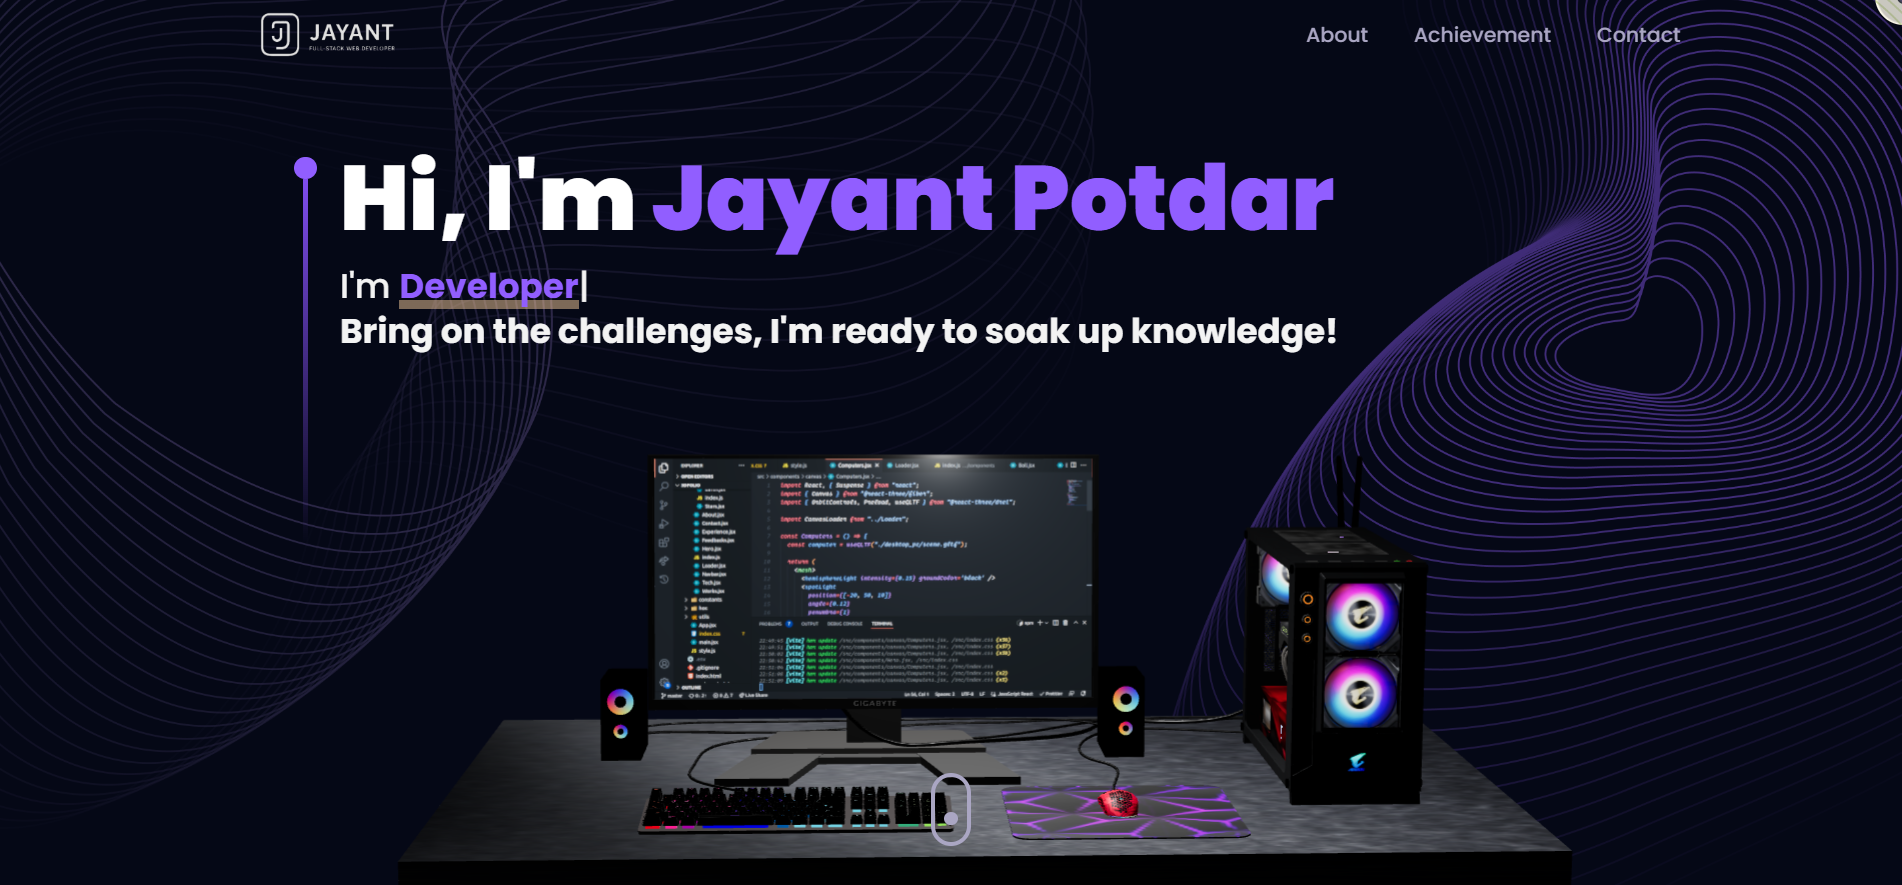
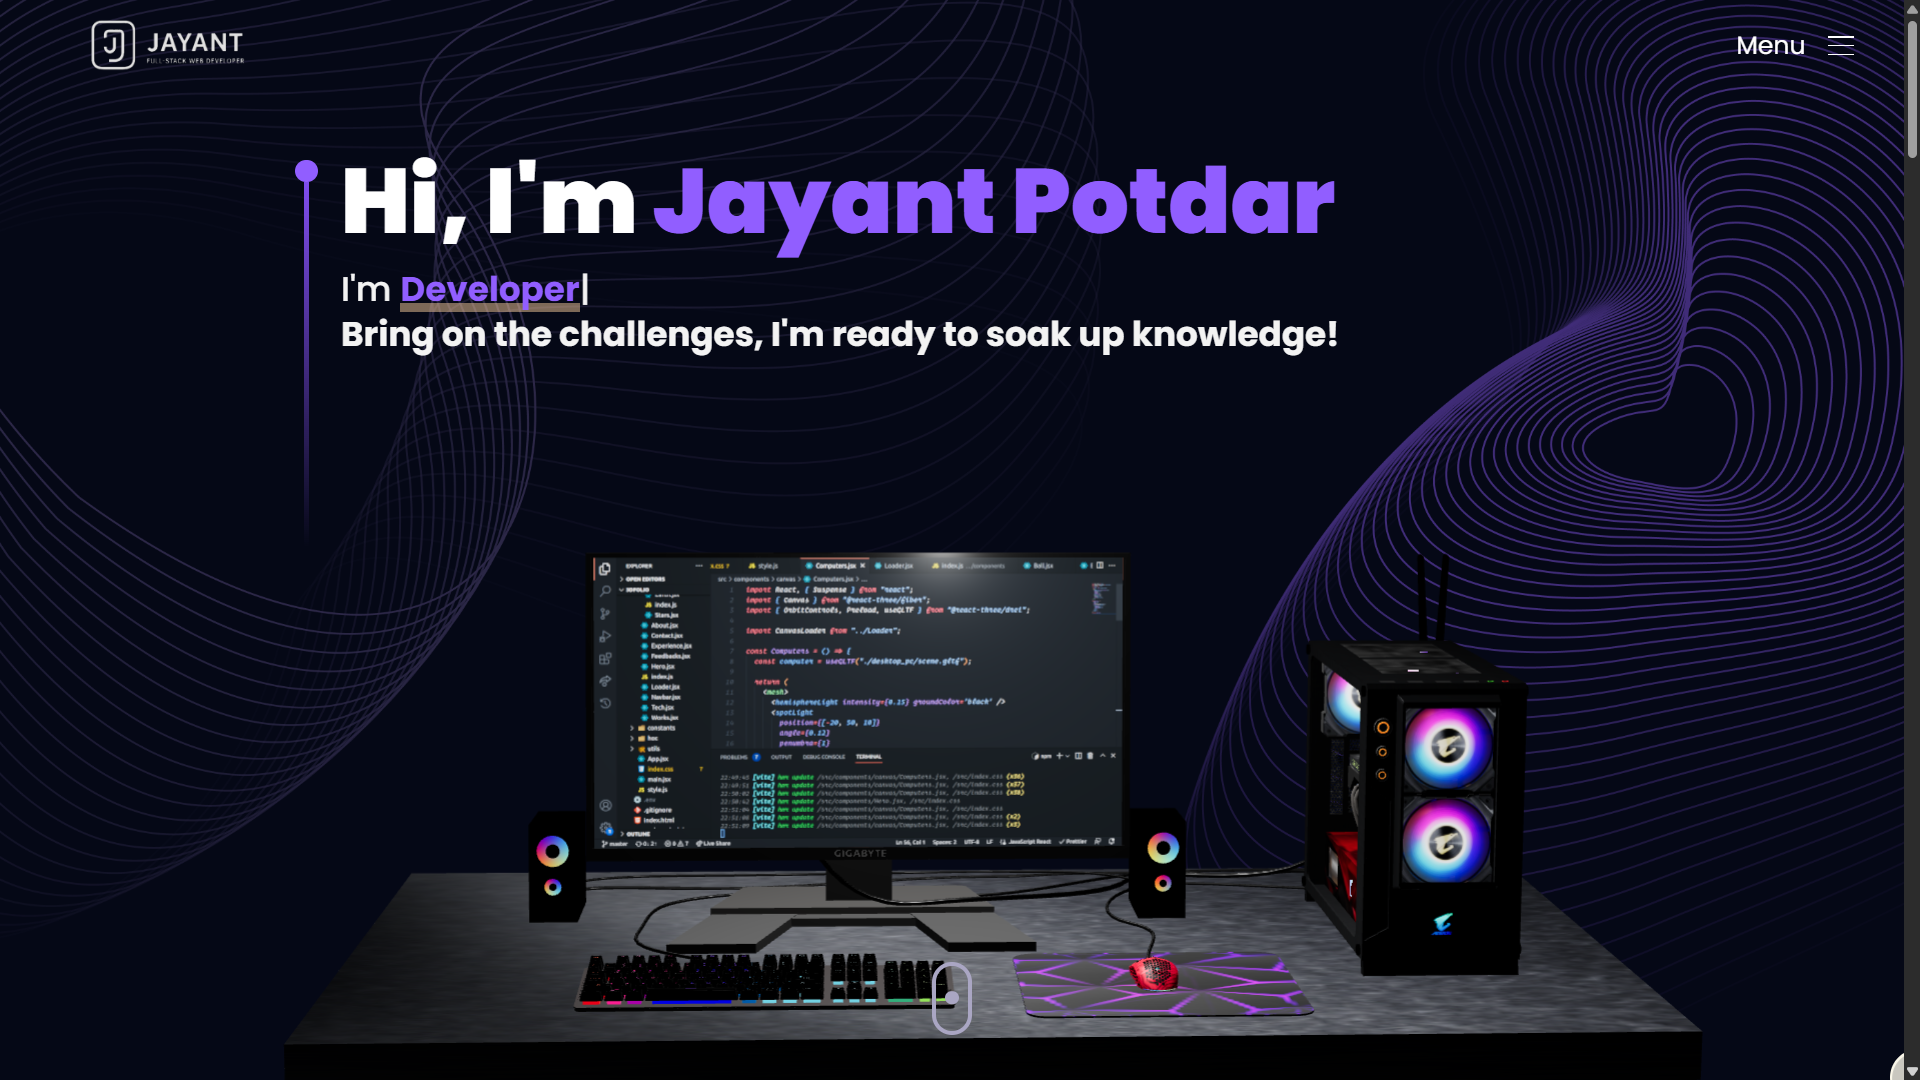
Readme file

Changed region(s): [[0.0, 0.0, 1.0, 1.0], [0.6824, 0.0305, 0.7135, 0.061], [0.4963, 0.0305, 0.5273, 0.061]]

diff --git a/README.md b/README.md
@@ -1,0 +1,230 @@
+# 🚀 3D Portfolio Website
+
+Welcome to my immersive 3D portfolio website! This project showcases my skills, projects, and creativity through stunning 3D animations, interactive elements, and smooth motion design. Experience a cosmic journey through space-themed design with cutting-edge web technologies.
+
+![Portfolio Preview](https://raw.githubusercontent.com/Jayant-1/3D-Portfolio/refs/heads/main/public/assets/nav-link-previews/home.png?token=GHSAT0AAAAAADBVPFWGGTFGHPVSRGRWWB7E2DJDFGQ)
+
+## ✨ Features
+
+### 🎮 Interactive 3D Elements
+
+- **Custom 3D Keyboard**: Interactive Spline-powered keyboard with skills as keycaps that reveal titles and descriptions on hover
+- **3D Models**: Desktop PC, Earth, and other 3D assets using Three.js and React Three Fiber
+- **Particle Systems**: Dynamic star field background creating an immersive space environment
+- **Elastic Cursor**: Custom cursor with physics-based animations for enhanced interactivity
+
+### 🎨 Visual & Animation
+
+- **Smooth Animations**: Powered by GSAP and Framer Motion for fluid scroll animations, hover effects, and element reveals
+- **Space Theme**: Dark cosmic background with particle effects and stellar animations
+- **Preloader**: Engaging loading screen with custom animations
+- **Easter Eggs**: Hidden interactive elements for curious visitors
+
+### 📱 Responsive Design
+
+- **Mobile-First**: Fully responsive across all devices and screen sizes
+- **Touch Optimized**: Smooth interactions on touch devices
+- **Performance Optimized**: Optimized 3D rendering and animations
+
+### 🎯 Sections
+
+- **Hero**: Eye-catching introduction with 3D elements
+- **About**: Personal story and background
+- **Skills**: Interactive 3D keyboard showcasing technical skills
+- **Projects**: Portfolio of work with 3D project cards
+- **Achievements**: Timeline of accomplishments and certifications
+- **Contact**: Interactive contact form with 3D elements
+
+## 🛠 Tech Stack
+
+### Frontend & Framework
+
+- **React 18** - Modern React with hooks and functional components
+- **Vite** - Lightning-fast build tool and development server
+- **React Router DOM** - Client-side routing
+
+### 3D & Graphics
+
+- **Three.js** - 3D graphics library
+- **React Three Fiber** - React renderer for Three.js
+- **React Three Drei** - Useful helpers for React Three Fiber
+- **Spline Runtime** - Interactive 3D design tool integration
+- **Maath** - Mathematical utilities for 3D graphics
+
+### Styling & UI
+
+- **Tailwind CSS** - Utility-first CSS framework
+- **PostCSS** - CSS processing
+- **Autoprefixer** - CSS vendor prefixing
+
+### Animations & Interactions
+
+- **GSAP** - Professional-grade animations
+- **Framer Motion** - Production-ready motion library
+- **React Tilt** - 3D tilt effects
+- **React Vertical Timeline Component** - Timeline animations
+
+### Utilities & Tools
+
+- **React Icons** - Icon library
+- **EmailJS** - Email functionality
+- **Clsx & Tailwind Merge** - Conditional styling utilities
+- **Devtools Detector** - Development tools detection
+
+## 🚀 Getting Started
+
+### Prerequisites
+
+- **Node.js** (v16 or higher)
+- **npm** or **yarn** package manager
+
+### Installation
+
+1. **Clone the repository:**
+
+   ```bash
+   git clone https://github.com/Jayant-1/3D-Portfolio.git
+   cd 3d-portfolio
+   ```
+
+2. **Install dependencies:**
+
+   ```bash
+   npm install
+   # or
+   yarn install
+   ```
+
+3. **Start the development server:**
+
+   ```bash
+   npm run dev
+   # or
+   yarn dev
+   ```
+
+4. **Open your browser:**
+   Navigate to [http://localhost:5173](http://localhost:5173) to see the magic!
+
+### Build for Production
+
+```bash
+npm run build
+# or
+yarn build
+```
+
+### Preview Production Build
+
+```bash
+npm run preview
+# or
+yarn preview
+```
+
+## 📁 Project Structure
+
+```
+src/
+├── components/          # React components
+│   ├── canvas/         # 3D canvas components
+│   │   ├── Ball.jsx
+│   │   ├── Computers.jsx
+│   │   ├── Earth.jsx
+│   │   └── Stars.jsx
+│   ├── preloader/      # Loading screen
+│   ├── ui/            # UI components
+│   ├── About.jsx
+│   ├── Achievement.jsx
+│   ├── Contact.jsx
+│   ├── ElasticCursor.jsx
+│   ├── Feedbacks.jsx
+│   ├── Hero.jsx
+│   ├── Navbar.jsx
+│   ├── SkillKeyboard.jsx
+│   └── Works.jsx
+├── assets/            # Static assets
+│   ├── achievement/   # Achievement images
+│   ├── badge/        # Skill badges
+│   ├── fonts/        # Custom fonts
+│   └── project/      # Project images
+├── constants/         # Configuration files
+├── hoc/              # Higher-order components
+├── utils/            # Utility functions
+└── styles.js         # Global styles
+```
+
+## 🎨 Customization
+
+### Adding New 3D Models
+
+1. Place your 3D models in the `public/` directory
+2. Import and use them in canvas components
+3. Ensure models are optimized for web (glTF format recommended)
+
+### Modifying Animations
+
+- **GSAP Animations**: Edit scroll-triggered animations in component files
+- **Framer Motion**: Modify motion variants in components
+- **3D Animations**: Update Three.js animations in canvas components
+
+### Styling Changes
+
+- **Tailwind Classes**: Modify existing classes or add custom ones
+- **Global Styles**: Update `src/styles.js` for theme changes
+- **Component Styles**: Edit individual component styling
+
+## 🚀 Deployment
+
+### Vercel (Recommended)
+
+1. Push your code to GitHub
+2. Connect your repository to Vercel
+3. Vercel will automatically deploy your site
+
+### Other Platforms
+
+- **GitHub Pages**: Deploy using GitHub Actions
+- **Firebase Hosting**: Use Firebase CLI
+- **AWS S3**: Upload built files to S3 bucket
+
+## 🤝 Contributing
+
+Contributions are welcome! Here's how you can help:
+
+1. **Fork the repository**
+2. **Create a feature branch**: `git checkout -b feature/amazing-feature`
+3. **Commit your changes**: `git commit -m 'Add amazing feature'`
+4. **Push to the branch**: `git push origin feature/amazing-feature`
+5. **Open a Pull Request**
+
+### Development Guidelines
+
+- Follow React best practices
+- Maintain responsive design
+- Optimize 3D performance
+- Add meaningful commit messages
+- Test across different devices
+
+## 📄 License
+
+This project is licensed under the MIT License - see the [LICENSE](LICENSE) file for details.
+
+## 🙏 Acknowledgments
+
+- **Spline** for 3D design tools
+- **Three.js** community for 3D graphics
+- **GSAP** for powerful animations
+- **Framer Motion** for React animations
+- **Tailwind CSS** for utility-first styling
+
+## 📞 Contact
+
+- **Portfolio**: [https://jayant-1.vercel.app/]
+- **GitHub**: [@Jayant-1](https://github.com/Jayant-1)
+- **LinkedIn**: [Jayant Potdar](https://www.linkedin.com/in/jayant-potdar-880a461b8/)
+- **Email**: jayantpotdar2006@gmail.com
+
+---
+
+⭐ **Star this repository if you found it helpful!**
